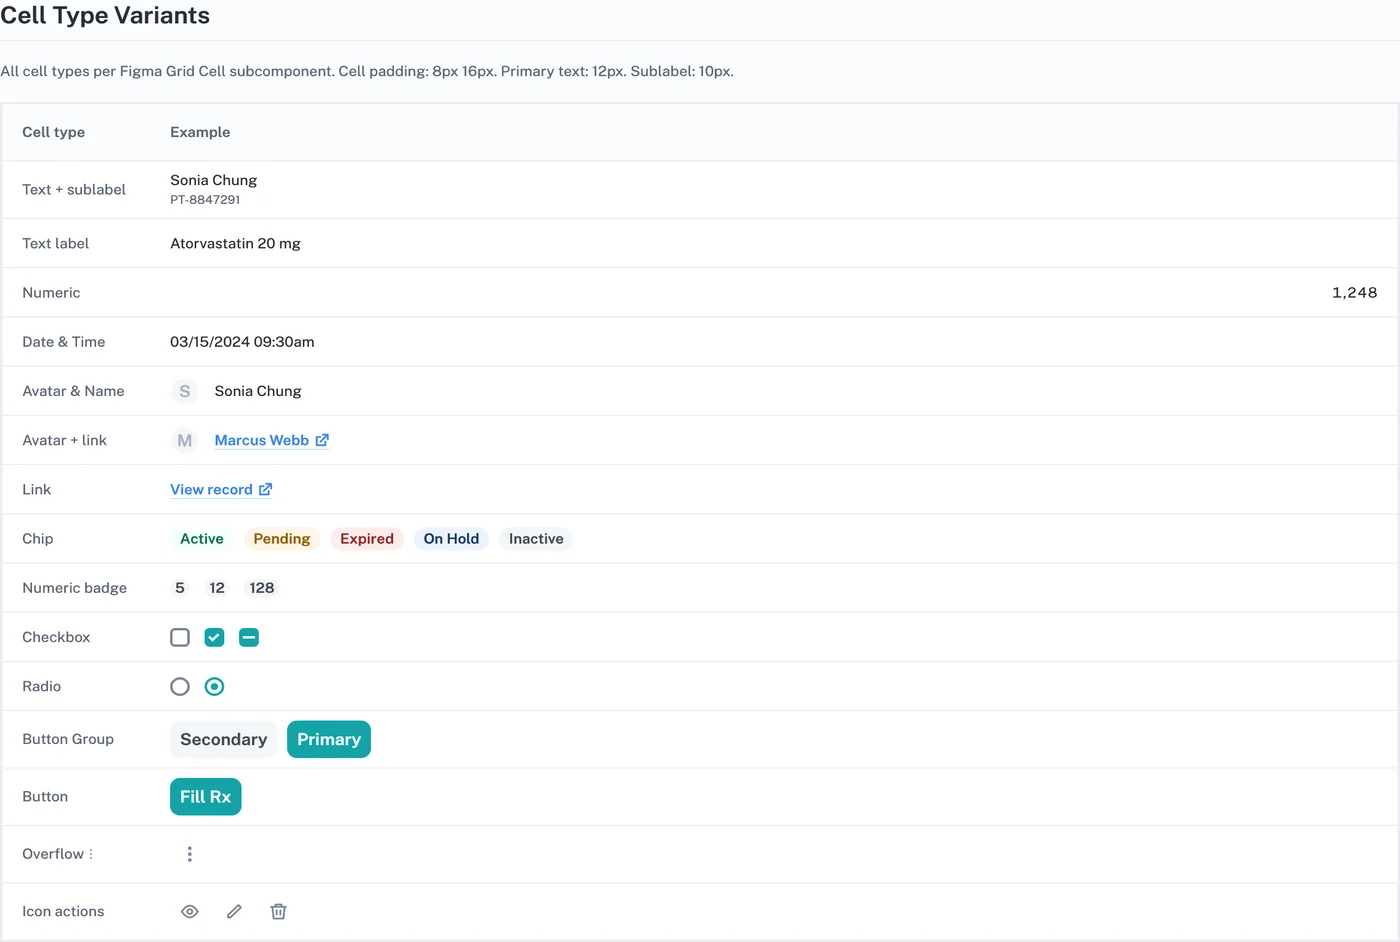
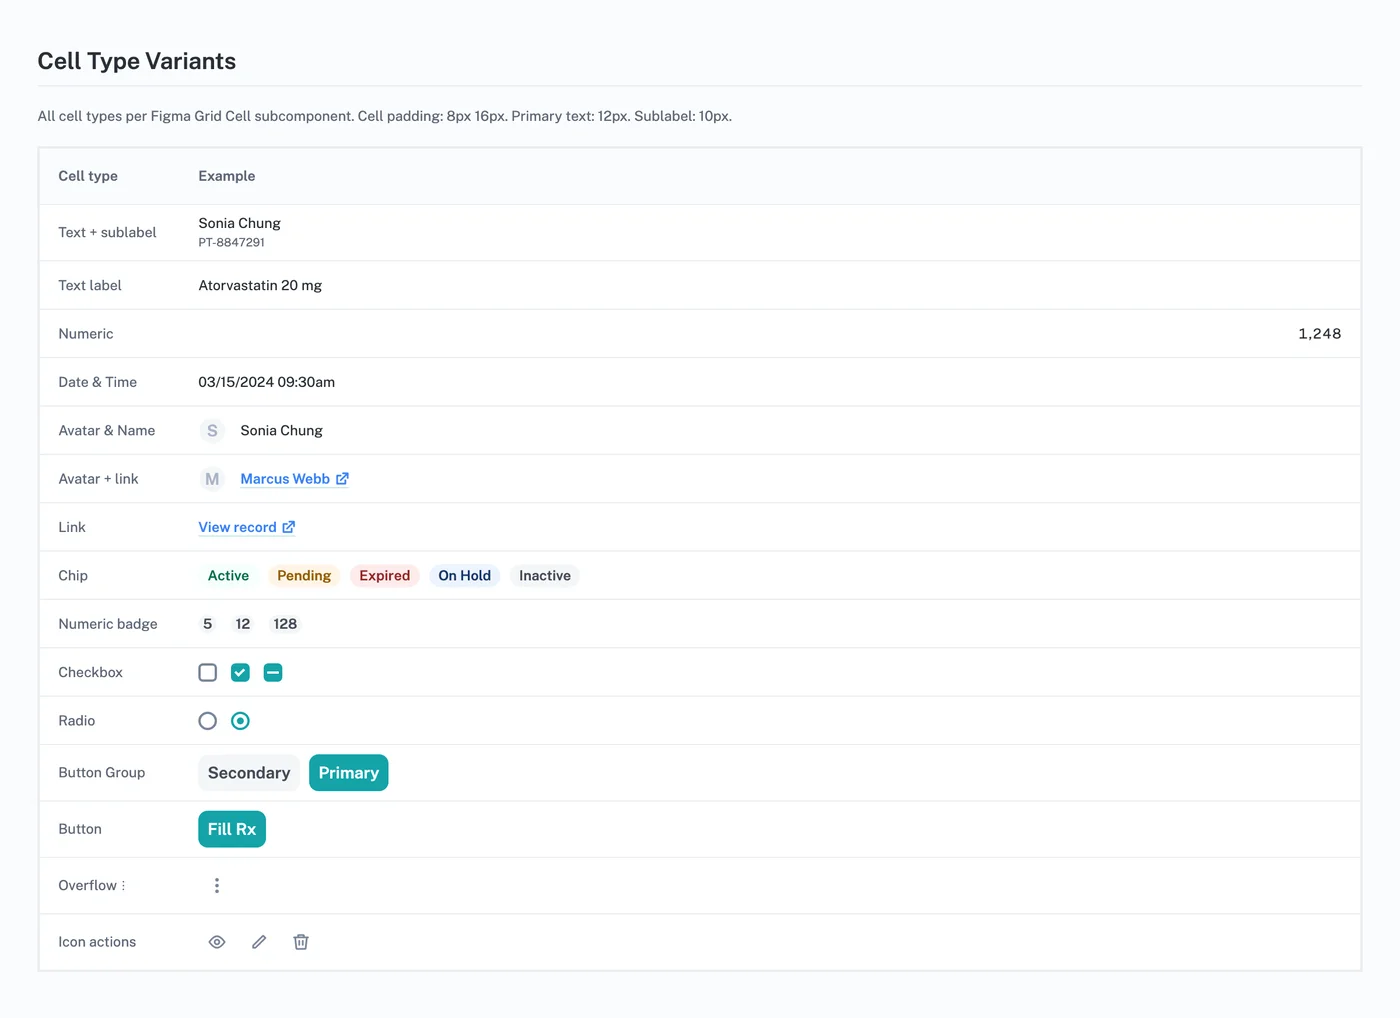
fix: more padding around cell type variants capture
The capture clipped right to the section's own bounding box, so the
title sat against the frame edge. Recaptured with 40px (1x) of the
page's own background on every side — captured live, not painted in
post. Display grew from 1400x942 to 1400x1018; large grew from
2274x1530 to 2400x1768 (native 2x, no upscale). Updated the
aspect-ratio modifier to match so nothing crops or letterboxes.

diff --git a/components/components.css b/components/components.css
@@ -699,7 +699,7 @@ body[data-page="case-study"] {
 
 /* OnePulse Connect */
 .case-visual__image--figma-variables { aspect-ratio: 712 / 438; }
-.case-visual__image--celltypevariants { aspect-ratio: 712 / 479; }
+.case-visual__image--celltypevariants { aspect-ratio: 1400 / 1018; }
 .case-visual__image--patientprofile,
 .case-visual__image--assessmentexample { aspect-ratio: 712 / 534; }
 
